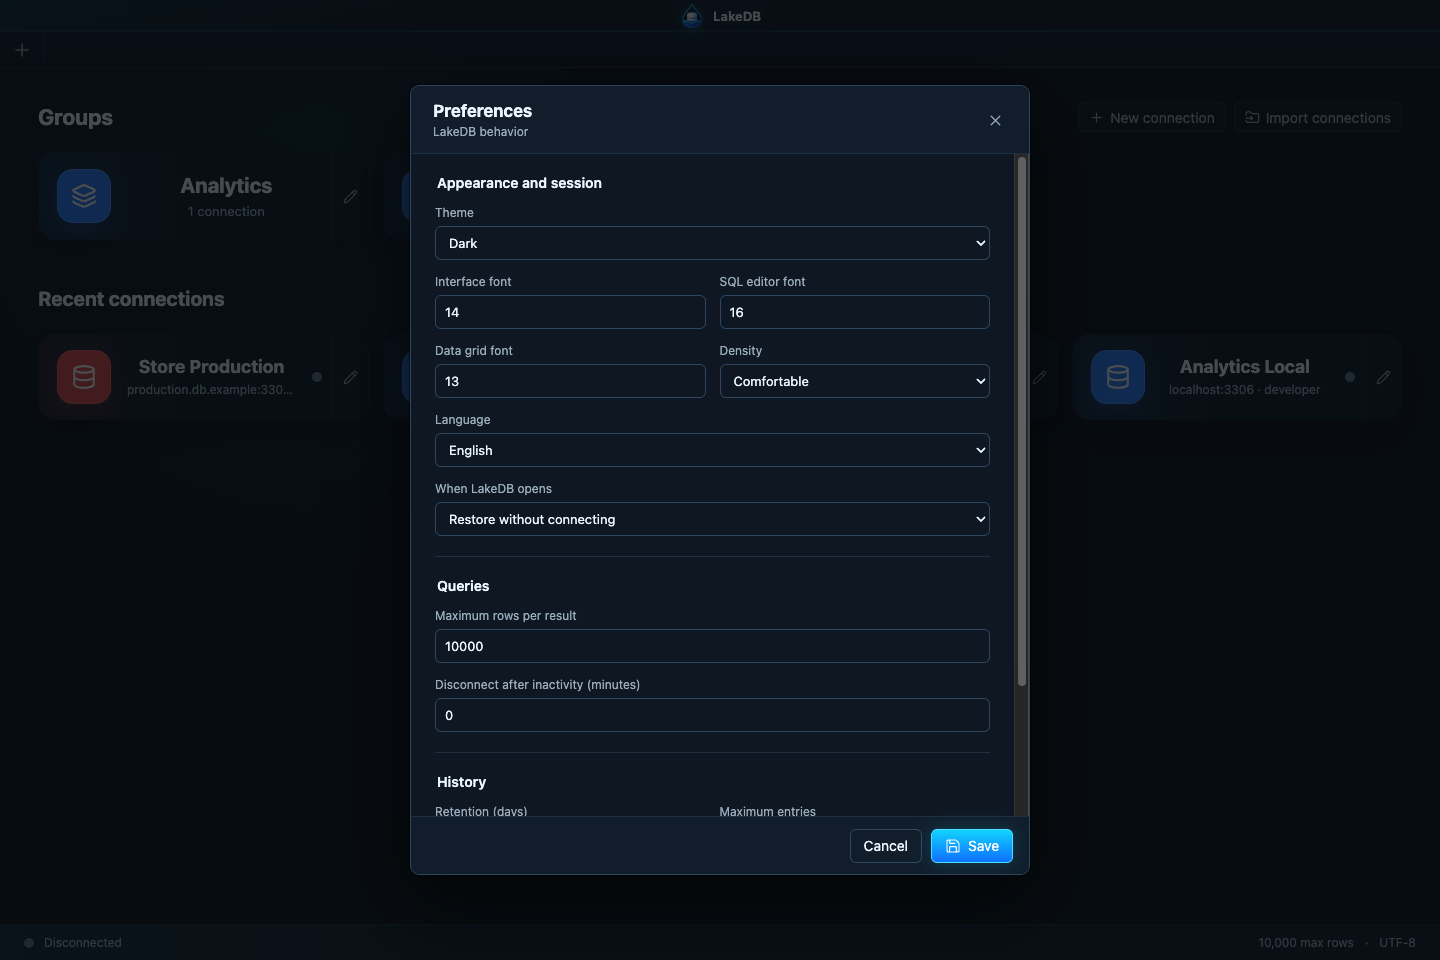
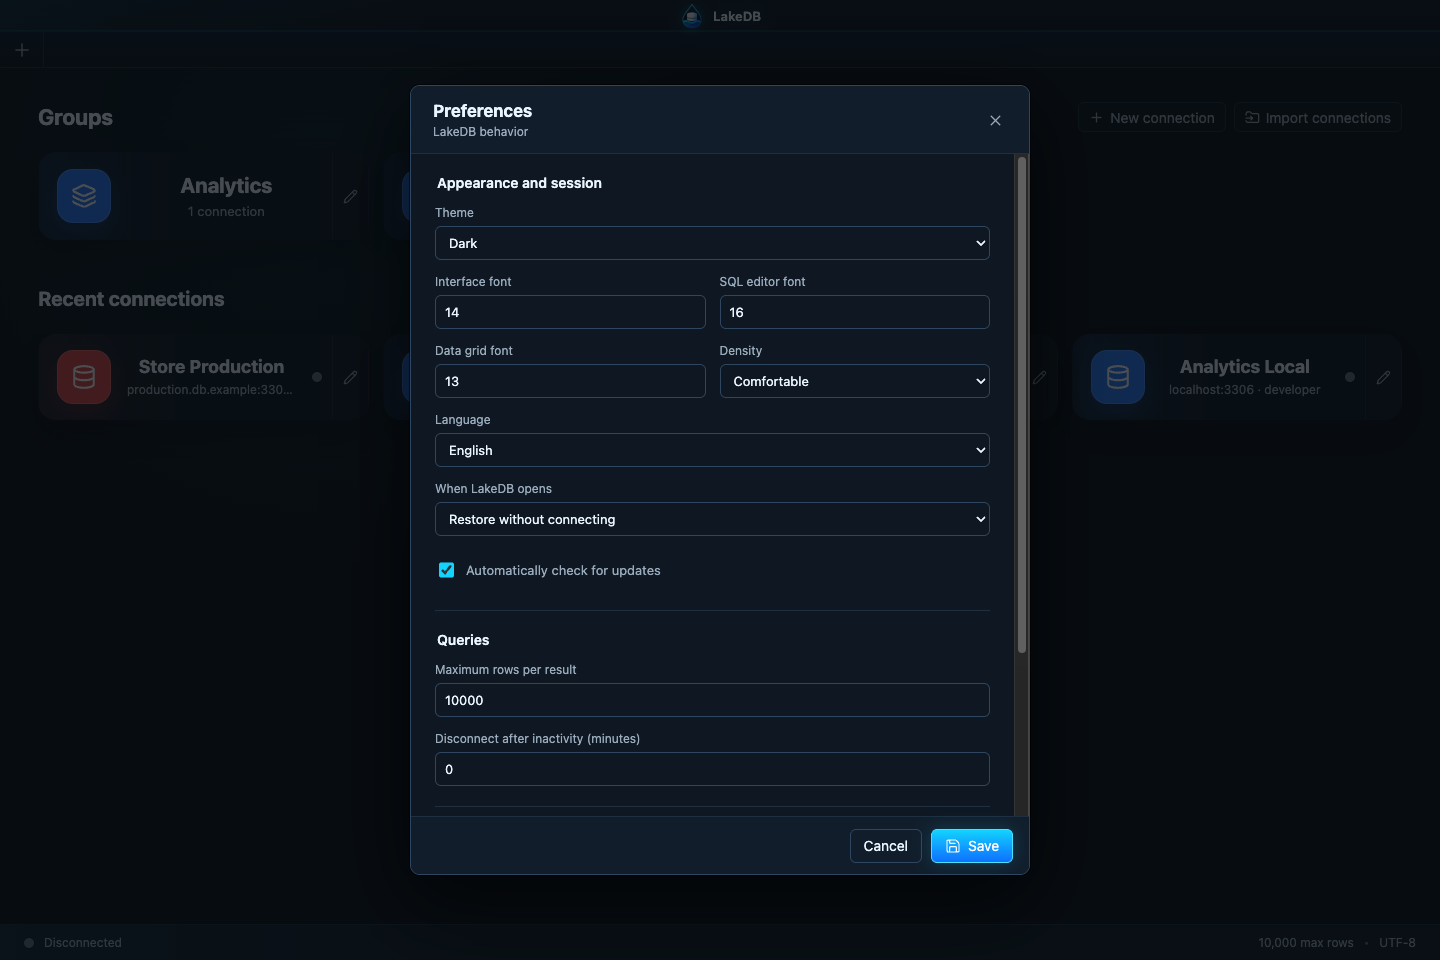
docs: present 0.7 beta and multiconnection tabs

diff --git a/README.md b/README.md
@@ -25,7 +25,7 @@
 ## The road to LakeDB 1.0
 
 <p align="center">
-  <a href="ROADMAP.md"><img src="assets/roadmap/lakedb-roadmap-v0.6.0.png" width="100%" alt="LakeDB product evolution from 0.1 to 0.6 and what remains before 1.0"></a>
+  <a href="ROADMAP.md"><img src="assets/roadmap/lakedb-roadmap-v0.7.0-beta.1.png" width="100%" alt="LakeDB product evolution from 0.1 to the 0.7 beta and what remains before 1.0"></a>
 </p>
 
 LakeDB is growing in public milestones. See the [living roadmap](ROADMAP.md) for what each release added, the proposed path to 1.0 and the ideas being explored beyond it. The roadmap is updated with every release; future scope is directional and shaped by community feedback.
@@ -33,6 +33,10 @@ LakeDB is growing in public milestones. See the [living roadmap](ROADMAP.md) for
 ## Your databases, without the noise
 
 LakeDB is built for people who work with many MySQL and MariaDB connections every day. Every server gets its own workspace, SQL editor, object explorer, table views and independent state.
+
+### Multitab across every connection
+
+Keep many database connections open at the same time and give each one as many SQL and table tabs as you need. Every connection preserves its own active tab, selected schema, editor content, table state and layout, so switching from local to staging or production never mixes your working context. Close LakeDB—or recover from an unexpected stop—and the complete multiconnection workspace comes back.
 
 <p align="center">
   <img src="assets/screenshots/connections.png" width="100%" alt="Connections organized by environment in LakeDB">
@@ -45,13 +49,15 @@ LakeDB is built for people who work with many MySQL and MariaDB connections ever
 | Area | Included in LakeDB Free |
 | --- | --- |
 | **Connections** | Unlimited connections, folders, environment colors, SSL, SSH tunnels and automatic reconnection. |
-| **SQL editor** | Monaco Editor, multiple tabs, selection or statement execution, history, favorites and cancellation. |
+| **Multiconnection tabs** | Many connections open at once, each with independent SQL/table tabs, schemas and recoverable workspace state. |
+| **SQL editor** | Monaco Editor, multiple tabs per connection, selection or statement execution, history, favorites and cancellation. |
 | **Explorer** | Databases, tables, views, procedures, functions, triggers, events, indexes, foreign keys and DDL. |
 | **Data** | Virtualized grid, pagination, filters, sorting, search and CSV, JSON or Excel-compatible export. |
 | **Safe editing** | Insert, edit, duplicate and delete with a change buffer, conflict detection and rollback. |
 | **Protection** | Read-only mode and reinforced confirmation for dangerous production operations. |
 | **Import** | Import connections from DBeaver, SQLyog, JSON, CSV and MySQL/JDBC URLs. |
 | **Tools** | SQL backup and restore, schema comparison, and table structure/data copy between connections. |
+| **Resilience** | Update notices, safe configuration restore, crash recovery and protected local-data migrations. |
 
 Everything runs locally. LakeDB does not send your connections, queries or credentials to an external LakeDB service.
 
@@ -73,7 +79,11 @@ Open the [latest release](https://github.com/DavLagoHern/LakeDB/releases/latest)
 | Windows x64 | `LakeDB-*-win-x64-setup.exe` | Run the installer. A portable `.exe` is also available. |
 | Linux x64 | `LakeDB-*-linux-x86_64.AppImage` or `LakeDB-*-linux-amd64.deb` | Make the AppImage executable, or install the Debian package. |
 
-Early builds are not code-signed yet, so your operating system may display a security warning. Only download LakeDB from this official repository. Every package includes a matching SHA-256 checksum.
+The `0.7.0-beta.1` packages are intentionally unsigned while LakeDB is evaluated publicly, so your operating system may display a security warning. Only download LakeDB from this official repository. Every package includes a matching SHA-256 checksum. Stable releases are configured to require macOS/Windows signing and Apple notarization before publication.
+
+## 0.7 public beta: built for recovery
+
+The current beta adds update notices, safe configuration restore, preserved tabs after normal or unexpected exits, pre-migration snapshots and recovery backups before SQL restores. Read the [beta notes](https://github.com/DavLagoHern/LakeDB/releases/tag/v0.7.0-beta.1) and the [recovery guide](https://github.com/DavLagoHern/LakeDB/wiki/Updates-Recovery-and-Restores) before testing an upgrade with important local profiles.
 
 ## English and Spanish, ready for more
 

diff --git a/ROADMAP.md b/ROADMAP.md
@@ -1,6 +1,6 @@
 # The road to LakeDB 1.0
 
-![LakeDB product evolution from 0.1 to 0.6 and what remains before 1.0](assets/roadmap/lakedb-roadmap-v0.6.0.png)
+![LakeDB product evolution from 0.1 to the 0.7 beta and what remains before 1.0](assets/roadmap/lakedb-roadmap-v0.7.0-beta.1.png)
 
 LakeDB is growing through clear product milestones. This roadmap tells the story from the first foundation to today's cross-platform release, then shows the work needed for a stable 1.0.
 
@@ -15,7 +15,8 @@ The milestones describe product evolution; they do not all correspond one-to-one
 | **0.3** | SQL workspace | Monaco-powered SQL editing, tabs, object exploration, history, favorites and result navigation. |
 | **0.4** | Safe data | Table browsing and editing, read-only mode, production safeguards, filters, paging and import/export. |
 | **0.5** | Database tools | Diagnostics, configuration backup, SQL backup/restore, schema comparison, table copy and a stronger connection experience. |
-| **0.6 — current** | Cross-platform | Native macOS, Windows and Linux packages, English/Spanish i18n, international documentation, community and verified checksums. |
+| **0.6** | Cross-platform | Native macOS, Windows and Linux packages, English/Spanish i18n, international documentation, community and verified checksums. |
+| **0.7 beta — current** | Resilience | Update notices, guarded configuration restore, session/crash recovery, pre-migration snapshots, safer file limits, credential binding and accessibility checks. |
 
 ## What remains before 1.0
 
@@ -27,15 +28,15 @@ This is the current definition of a stable LakeDB 1.0. It is a direction rather 
 - macOS notarization and a documented verification path for every package.
 - Clear publisher identity and fewer first-install security warnings.
 
-### Smooth updates
+### Smooth updates — beta validation
 
-- Reliable update discovery inside the application.
-- A clear upgrade flow without losing connections, preferences or workspace state.
+- Update discovery is available in the 0.7 beta.
+- Automated migrations preserve connections, preferences and workspace state and create a pre-upgrade snapshot.
 - Release communication that explains changes, migrations and known limitations.
 
-### Polish and accessibility
+### Polish and accessibility — beta validation
 
-- Stronger keyboard navigation, focus behavior and screen-reader semantics.
+- Keyboard navigation, focus behavior and screen-reader semantics now have automated serious/critical checks.
 - First-run onboarding and clearer recovery/troubleshooting guidance.
 - Performance and visual consistency passes across the complete workspace.
 